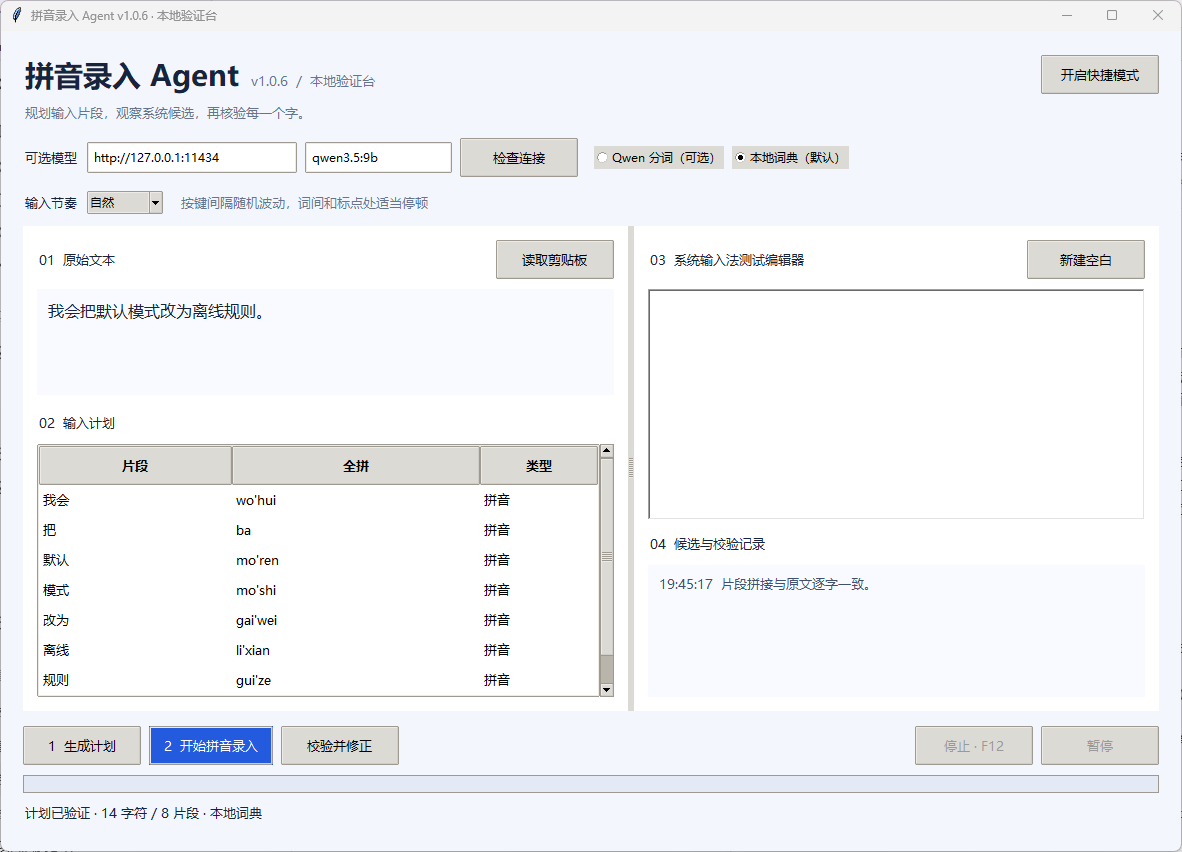
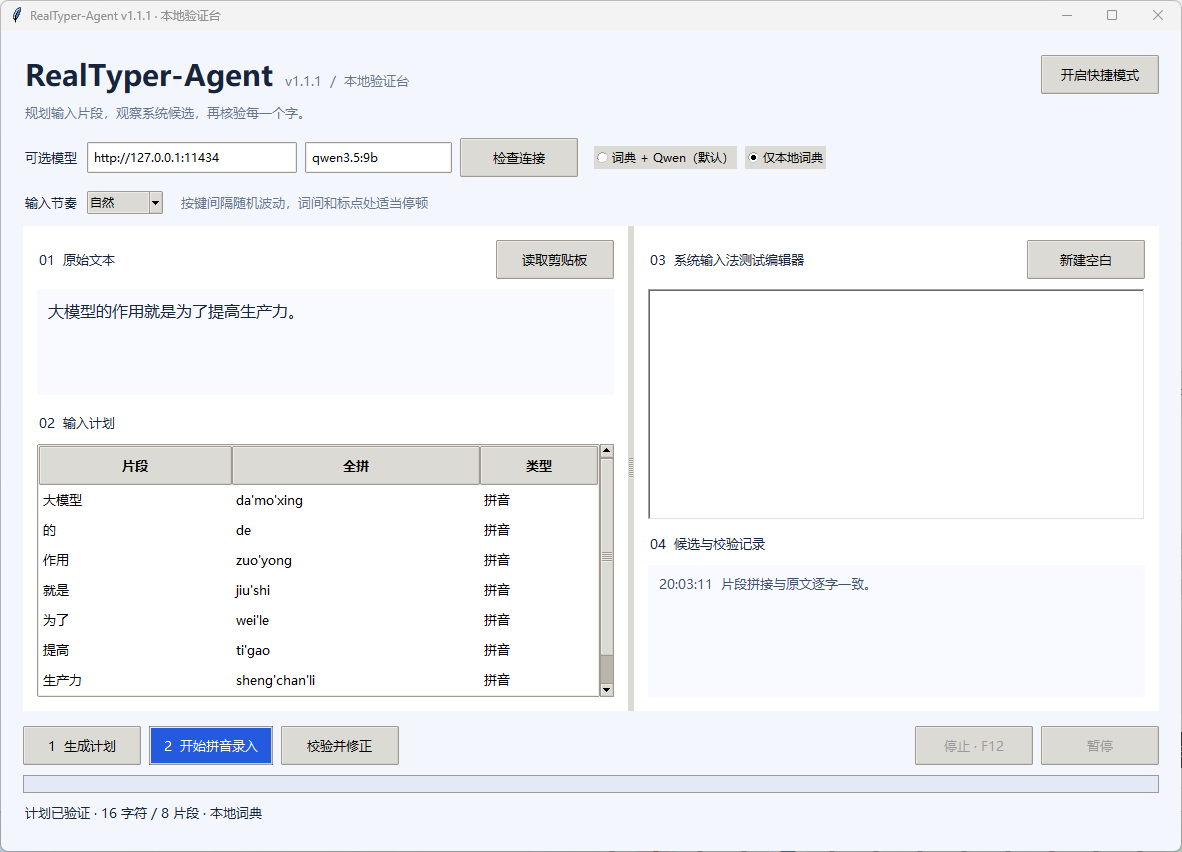
Rebrand as RealTyper-Agent and cite local LLM deployment guide

diff --git a/pinyin_agent/ui.py b/pinyin_agent/ui.py
@@ -8,7 +8,7 @@ import sys
 import tkinter as tk
 from tkinter import ttk, messagebox
 from pathlib import Path
-from . import __version__
+from . import APP_NAME, __version__
 from .domain import differences
 from .planner import make_plan,make_hybrid_plan
 from .ollama import Ollama, DEFAULT_URL, DEFAULT_MODEL
@@ -30,7 +30,7 @@ class App:
         self.last_log = None
         self.exit_code = 0
         self.last_elapsed = 0
-        root.title("拼音录入 Agent v%s · 本地验证台" % __version__)
+        root.title("%s v%s · 本地验证台" % (APP_NAME, __version__))
         root.geometry("1180x820")
         root.minsize(960, 700)
         root.configure(bg="#f3f6fc")
@@ -76,7 +76,7 @@ class App:
         outer.pack(fill="both", expand=True)
         top = ttk.Frame(outer)
         top.pack(fill="x")
-        ttk.Label(top,text="拼音录入 Agent",style="Title.TLabel").pack(side="left")
+        ttk.Label(top,text=APP_NAME,style="Title.TLabel").pack(side="left")
         ttk.Label(top,text="  v%s  /  本地验证台" % __version__,style="Muted.TLabel").pack(side="left",pady=(12,0))
         ttk.Button(top,text="开启快捷模式",command=self.open_quick).pack(side="right")
         ttk.Label(outer,text="规划输入片段，观察系统候选，再核验每一个字。",style="Muted.TLabel").pack(anchor="w",pady=(5,14))
@@ -284,7 +284,7 @@ class App:
 
     def open_quick(self):
         pace=next(key for key,profile in PACES.items() if profile.label==self.pace.get())
-        subprocess.Popen([sys.executable,"-m","pinyin_agent","--quick","--url",self.url.get(),
+        subprocess.Popen([sys.executable,"-m","realtyper_agent","--quick","--url",self.url.get(),
             "--model",self.model.get(),"--pace",pace,"--"+self.mode.get()],
             cwd=str(Path(__file__).resolve().parents[1]),creationflags=subprocess.CREATE_NO_WINDOW)
 
@@ -363,7 +363,7 @@ class App:
 
 
 def build_parser():
-    parser=argparse.ArgumentParser(description="中文拼音录入 Agent 本地验证台")
+    parser=argparse.ArgumentParser(prog="python -m realtyper_agent",description="RealTyper-Agent · 中文拼音智能录入与本地验证台")
     parser.add_argument("--url",default=DEFAULT_URL)
     parser.add_argument("--model",default=DEFAULT_MODEL)
     planning=parser.add_mutually_exclusive_group()

diff --git a/scripts/capture_readme.py b/scripts/capture_readme.py
@@ -65,7 +65,7 @@ def capture_quick():
 
 def capture_planner():
     root=tk.Tk()
-    args=build_parser().parse_args(['--text','我会把默认模式改为离线规则。'])
+    args=build_parser().parse_args(['--offline','--text','大模型的作用就是为了提高生产力。'])
     app=App(root,args)
     # Fit this display while keeping every action and the status line visible.
     root.geometry('1180x820+20+20')
@@ -95,7 +95,7 @@ def capture_planner():
     root.after(100,poll)
     root.mainloop()
 
-capture_quick()
+if '--planner-only' not in sys.argv:capture_quick()
 if '--quick-only' not in sys.argv:capture_planner()
 report_name='readme-quick-capture.json' if '--quick-only' in sys.argv else 'readme-capture.json'
 (ROOT/'runs'/report_name).write_text(json.dumps(report,ensure_ascii=False,indent=2),encoding='utf-8')

diff --git a/tests/external_browser_acceptance.py b/tests/external_browser_acceptance.py
@@ -18,7 +18,7 @@ from pinyin_agent.hotkeys import GlobalHotkeys
 from pinyin_agent.ui import build_parser
 from pinyin_agent import __version__
 
-HTML='''<!doctype html><meta charset="utf-8"><title>拼音快捷输入 · 自有浏览器测试</title>
+HTML='''<!doctype html><meta charset="utf-8"><title>RealTyper-Agent · 自有浏览器测试</title>
 <style>body{font:22px sans-serif;margin:30px}textarea,[contenteditable]{font:26px sans-serif;width:90%;height:280px;border:1px solid #888}</style>
 <p>自有浏览器测试，保持本输入框焦点。</p><form><textarea aria-label="拼音快捷测试框" autofocus></textarea><button>测试按钮</button></form>
 <script>let sent=0,enters=0,keylog=[];let box=document.querySelector('textarea,[contenteditable]');

diff --git a/pinyin_agent/quick.py b/pinyin_agent/quick.py
@@ -3,7 +3,7 @@ import queue
 import threading
 import tkinter as tk
 from tkinter import ttk
-from . import __version__
+from . import APP_NAME, __version__
 from .engine import Agent, Stopped
 from .external import capture_target, bind_target, ExternalBackend, TargetError
 from .hotkeys import GlobalHotkeys
@@ -116,7 +116,7 @@ class QuickPanel:
         self.root, self.args = root, args
         self.events = queue.Queue()
         self.closed = False
-        root.title("拼音快捷输入 v%s" % __version__)
+        root.title("%s v%s · 快捷输入" % (APP_NAME, __version__))
         root.geometry("470x340")
         root.resizable(False, False)
         self.pinned=tk.BooleanVar(master=root,value=True)

diff --git a/pinyin_agent/__init__.py b/pinyin_agent/__init__.py
@@ -1,2 +1,4 @@
-"""中文拼音录入 Agent: planning, real IME execution and exact verification."""
+"""RealTyper-Agent: planning, real IME execution and exact verification."""
+APP_NAME = "RealTyper-Agent"
+SLOGAN = "Real Typing, Not Text Insertion."
 __version__ = "1.1.1"

diff --git a/realtyper_agent/__init__.py b/realtyper_agent/__init__.py
@@ -1,0 +1,4 @@
+"""RealTyper-Agent public entry point."""
+from pinyin_agent import APP_NAME, SLOGAN, __version__
+
+__all__ = ["APP_NAME", "SLOGAN", "__version__"]

diff --git a/realtyper_agent/__main__.py b/realtyper_agent/__main__.py
@@ -1,0 +1,4 @@
+"""Launch RealTyper-Agent using the existing IME implementation."""
+from runpy import run_module
+
+run_module("pinyin_agent", run_name="__main__")

diff --git a/README.md b/README.md
@@ -1,12 +1,17 @@
 <p align="center">
-  <img src="docs/assets/hero.svg" alt="Pinyin Agent：按词组输入，按原文交付" width="100%">
+  <img src="docs/assets/hero.svg" alt="RealTyper-Agent · Real Typing, Not Text Insertion." width="100%">
 </p>
 
-<h1 align="center">Pinyin Agent · 拼音录入 Agent</h1>
+<h1 align="center">RealTyper-Agent</h1>
 
 <p align="center">
-  <strong>复制原文，定位光标，按下快捷键。</strong><br>
+  <strong>Real Typing, Not Text Insertion.</strong><br>
   让 Agent 规划词组、敲入拼音、核对上屏结果，完成中文录入。
+</p>
+
+<p align="center">
+  An intelligent typing agent that performs real keystroke and IME interactions,<br>
+  with semantic input planning, candidate selection, and automatic error correction.
 </p>
 
 <p align="center">
@@ -27,7 +32,7 @@
 
 ---
 
-**Pinyin Agent 是一个 Windows 中文录入工具。** 它读取剪贴板里的原文，将文字规划成词组，通过微软拼音按键与候选确认输入，再回读本次新增内容，发现差异时局部回删、重输。
+**RealTyper-Agent 是一个 Windows 中文智能录入工具。** 它读取剪贴板里的原文，将文字规划成词组，通过微软拼音按键与候选确认输入，再回读本次新增内容，发现差异时局部回删、重输。
 
 日常使用只有一个入口：**Ctrl + Alt + V**。词典可独立完成规划，也可以结合本机 Qwen；输入框已有文字时，从当前光标处继续。
 
@@ -52,11 +57,16 @@
 
 ## 快速开始
 
-需要 **Windows、Python 3.9+ 和已启用的微软拼音中文全拼**。从 GitHub 下载并解压项目，在项目文件夹打开 PowerShell：
+需要 **Windows、Python 3.9+ 和已启用的微软拼音中文全拼**。从 GitHub 下载并解压项目，在项目文件夹打开 PowerShell；也可以先克隆仓库：
+
+```powershell
+git clone https://github.com/mianwtt/RealTyper-Agent.git
+cd RealTyper-Agent
+```
 
 ```powershell
 python -m pip install --target .deps -r requirements.txt
-python -m pinyin_agent --quick
+python -m realtyper_agent --quick
 ```
 
 环境准备好后，日常直接双击 **[快捷输入.cmd](快捷输入.cmd)**。
@@ -83,10 +93,22 @@ python -m pinyin_agent --quick
 **没有模型也能用：**
 
 ```powershell
-python -m pinyin_agent --quick --offline
+python -m realtyper_agent --quick --offline
 ```
 
 默认 `--hybrid` 先生成本地词典计划，再尝试本机 Ollama 的 `qwen3.5:9b`。模型请求最多等待 20 秒；不可用或计划不合格时继续使用本地计划。程序不会自动下载模型。超过 400 字符的原文直接使用本地规划。
+
+### 可选：本地部署 LLM
+
+安装并打开 [Ollama](https://ollama.com/download)，在 PowerShell 下载模型并检查列表，然后启动 Agent：
+
+```powershell
+ollama pull qwen3.5:9b
+ollama list
+python -m realtyper_agent --quick --url http://127.0.0.1:11434 --model qwen3.5:9b
+```
+
+详细图文可参考 **智泊AI产品经理教程** 的 [《〖保姆级教程〗手把手教你用Ollama部署Qwen3-VL大模型，建议收藏！》](https://blog.csdn.net/2301_80239908/article/details/154696963)（CSDN）。该文以 **Qwen3-VL** 为例，供学习 Ollama 安装与本地部署；本项目默认使用 **qwen3.5:9b**。命令与模型信息以 [Ollama 官方文档](https://docs.ollama.com/cli) 和 [模型页](https://ollama.com/library/qwen3.5:9b) 为准。仅使用词典时可跳过这一步。
 
 <a id="features"></a>
 
@@ -105,10 +127,10 @@ python -m pinyin_agent --quick --offline
 
 ```powershell
 # 更慢，便于观察输入过程
-python -m pinyin_agent --quick --pace slow
+python -m realtyper_agent --quick --pace slow
 
 # 更快，保留随机间隔
-python -m pinyin_agent --quick --pace brisk
+python -m realtyper_agent --quick --pace brisk
 ```
 
 ## 想先看计划？打开验证台
@@ -116,14 +138,14 @@ python -m pinyin_agent --quick --pace brisk
 双击 **[启动.cmd](启动.cmd)**，或运行：
 
 ```powershell
-python -m pinyin_agent
+python -m realtyper_agent
 ```
 
 在一个窗口里查看**原文、词组、拼音、实际录入结果和核验记录**。先生成计划，再用自带编辑器试输入，适合检查分词、多音字和候选策略。
 
 ![本地验证台：原文与输入计划、系统输入法测试编辑器、候选与核验记录](docs/assets/planner.png)
 
-*真实界面截图。截图中的版本和布局供参考；当前默认使用本地词典与 Qwen 结合规划。*
+*RealTyper-Agent v1.1.1 真实截图：使用本地词典生成计划，尚未执行录入；日常默认模式为词典与 Qwen 结合。*
 
 <a id="how-it-works"></a>
 

diff --git a/docs/USAGE.md b/docs/USAGE.md
@@ -1,4 +1,4 @@
-# 使用说明
+# RealTyper-Agent 使用说明
 
 ## 环境与启动
 
@@ -6,7 +6,7 @@
 
 ```powershell
 python -m pip install --target .deps -r requirements.txt
-python -m pinyin_agent --quick
+python -m realtyper_agent --quick
 ```
 
 日常入口为 [快捷输入.cmd](../快捷输入.cmd)，本地验证台入口为 [启动.cmd](../启动.cmd)。启动器需要 `pythonw.exe` 可从 PATH 找到；若启动器没有打开窗口，先用上面的 `python` 命令查看错误。
@@ -15,19 +15,25 @@ python -m pinyin_agent --quick
 
 ```powershell
 # 词典 + Qwen：默认模式
-python -m pinyin_agent --quick
+python -m realtyper_agent --quick
 
 # 仅本地词典，不调用模型
-python -m pinyin_agent --quick --offline
+python -m realtyper_agent --quick --offline
 
 # 更慢的节奏
-python -m pinyin_agent --quick --pace slow
+python -m realtyper_agent --quick --pace slow
 
 # 指定你已安装并验证的模型
-python -m pinyin_agent --quick --url http://127.0.0.1:11434 --model your-installed-model
+python -m realtyper_agent --quick --url http://127.0.0.1:11434 --model your-installed-model
 ```
 
 `your-installed-model` 请替换为实际模型名称。当前集成的是 Ollama API。
+
+### 可选：部署本地模型
+
+从 [Ollama 官网](https://ollama.com/download) 安装 Windows 版并打开应用，运行 `ollama pull qwen3.5:9b` 下载默认模型，再用 `ollama list` 查看本机已安装模型。保持 Ollama 运行，使用 `--url http://127.0.0.1:11434 --model qwen3.5:9b` 连接。其他模型请将 `--model` 改为列表中的实际名称；不使用模型时直接加 `--offline`。
+
+图文入门参考：**智泊AI产品经理教程**，[《〖保姆级教程〗手把手教你用Ollama部署Qwen3-VL大模型，建议收藏！》](https://blog.csdn.net/2301_80239908/article/details/154696963)，CSDN。文章演示的是 Qwen3-VL，供学习本地部署流程；本项目默认模型为 qwen3.5:9b。最新命令和模型信息见 [Ollama CLI 文档](https://docs.ollama.com/cli) 与 [官方模型页](https://ollama.com/library/qwen3.5:9b)。
 
 ## 快捷模式
 
@@ -44,7 +50,7 @@ python -m pinyin_agent --quick --url http://127.0.0.1:11434 --model your-install
 
 ## 本地验证台
 
-运行 `python -m pinyin_agent`：
+运行 `python -m realtyper_agent`：
 
 1. 输入原文，或点击“读取剪贴板”。
 2. 默认使用词典与 Qwen 结合，也可选仅本地词典；需要时检查模型连接。
@@ -102,7 +108,7 @@ python -m pinyin_agent --quick --url http://127.0.0.1:11434 --model your-install
 
 ```powershell
 python -m unittest discover -s tests -v
-python -m pinyin_agent --smoke --offline --text '发力、法力、乏力'
+python -m realtyper_agent --smoke --offline --text '发力、法力、乏力'
 python tests/windows_acceptance.py
 python tests/external_acceptance.py --case native
 python tests/external_acceptance.py --case model

diff --git a/RELEASES.md b/RELEASES.md
@@ -1,3 +1,12 @@
+# RealTyper-Agent 品牌更新
+
+2026-11-15。
+
+- 项目与 GitHub 仓库统一更名为 RealTyper-Agent，Slogan 为 “Real Typing, Not Text Insertion.”。
+- README、横幅、验证台、快捷窗口、截图与启动器同步更新；新增 `python -m realtyper_agent` 入口，原 `python -m pinyin_agent` 入口继续兼容。
+- 补充本地 Ollama 部署简要说明，并明确标注参考文章作者、标题、平台及原文链接。
+- 版本保持 v1.1.1，录入策略、输入节奏和三次尝试上限不变。
+
 # V1 · v1.1.1
 
 更新日期：2026-11-11。
